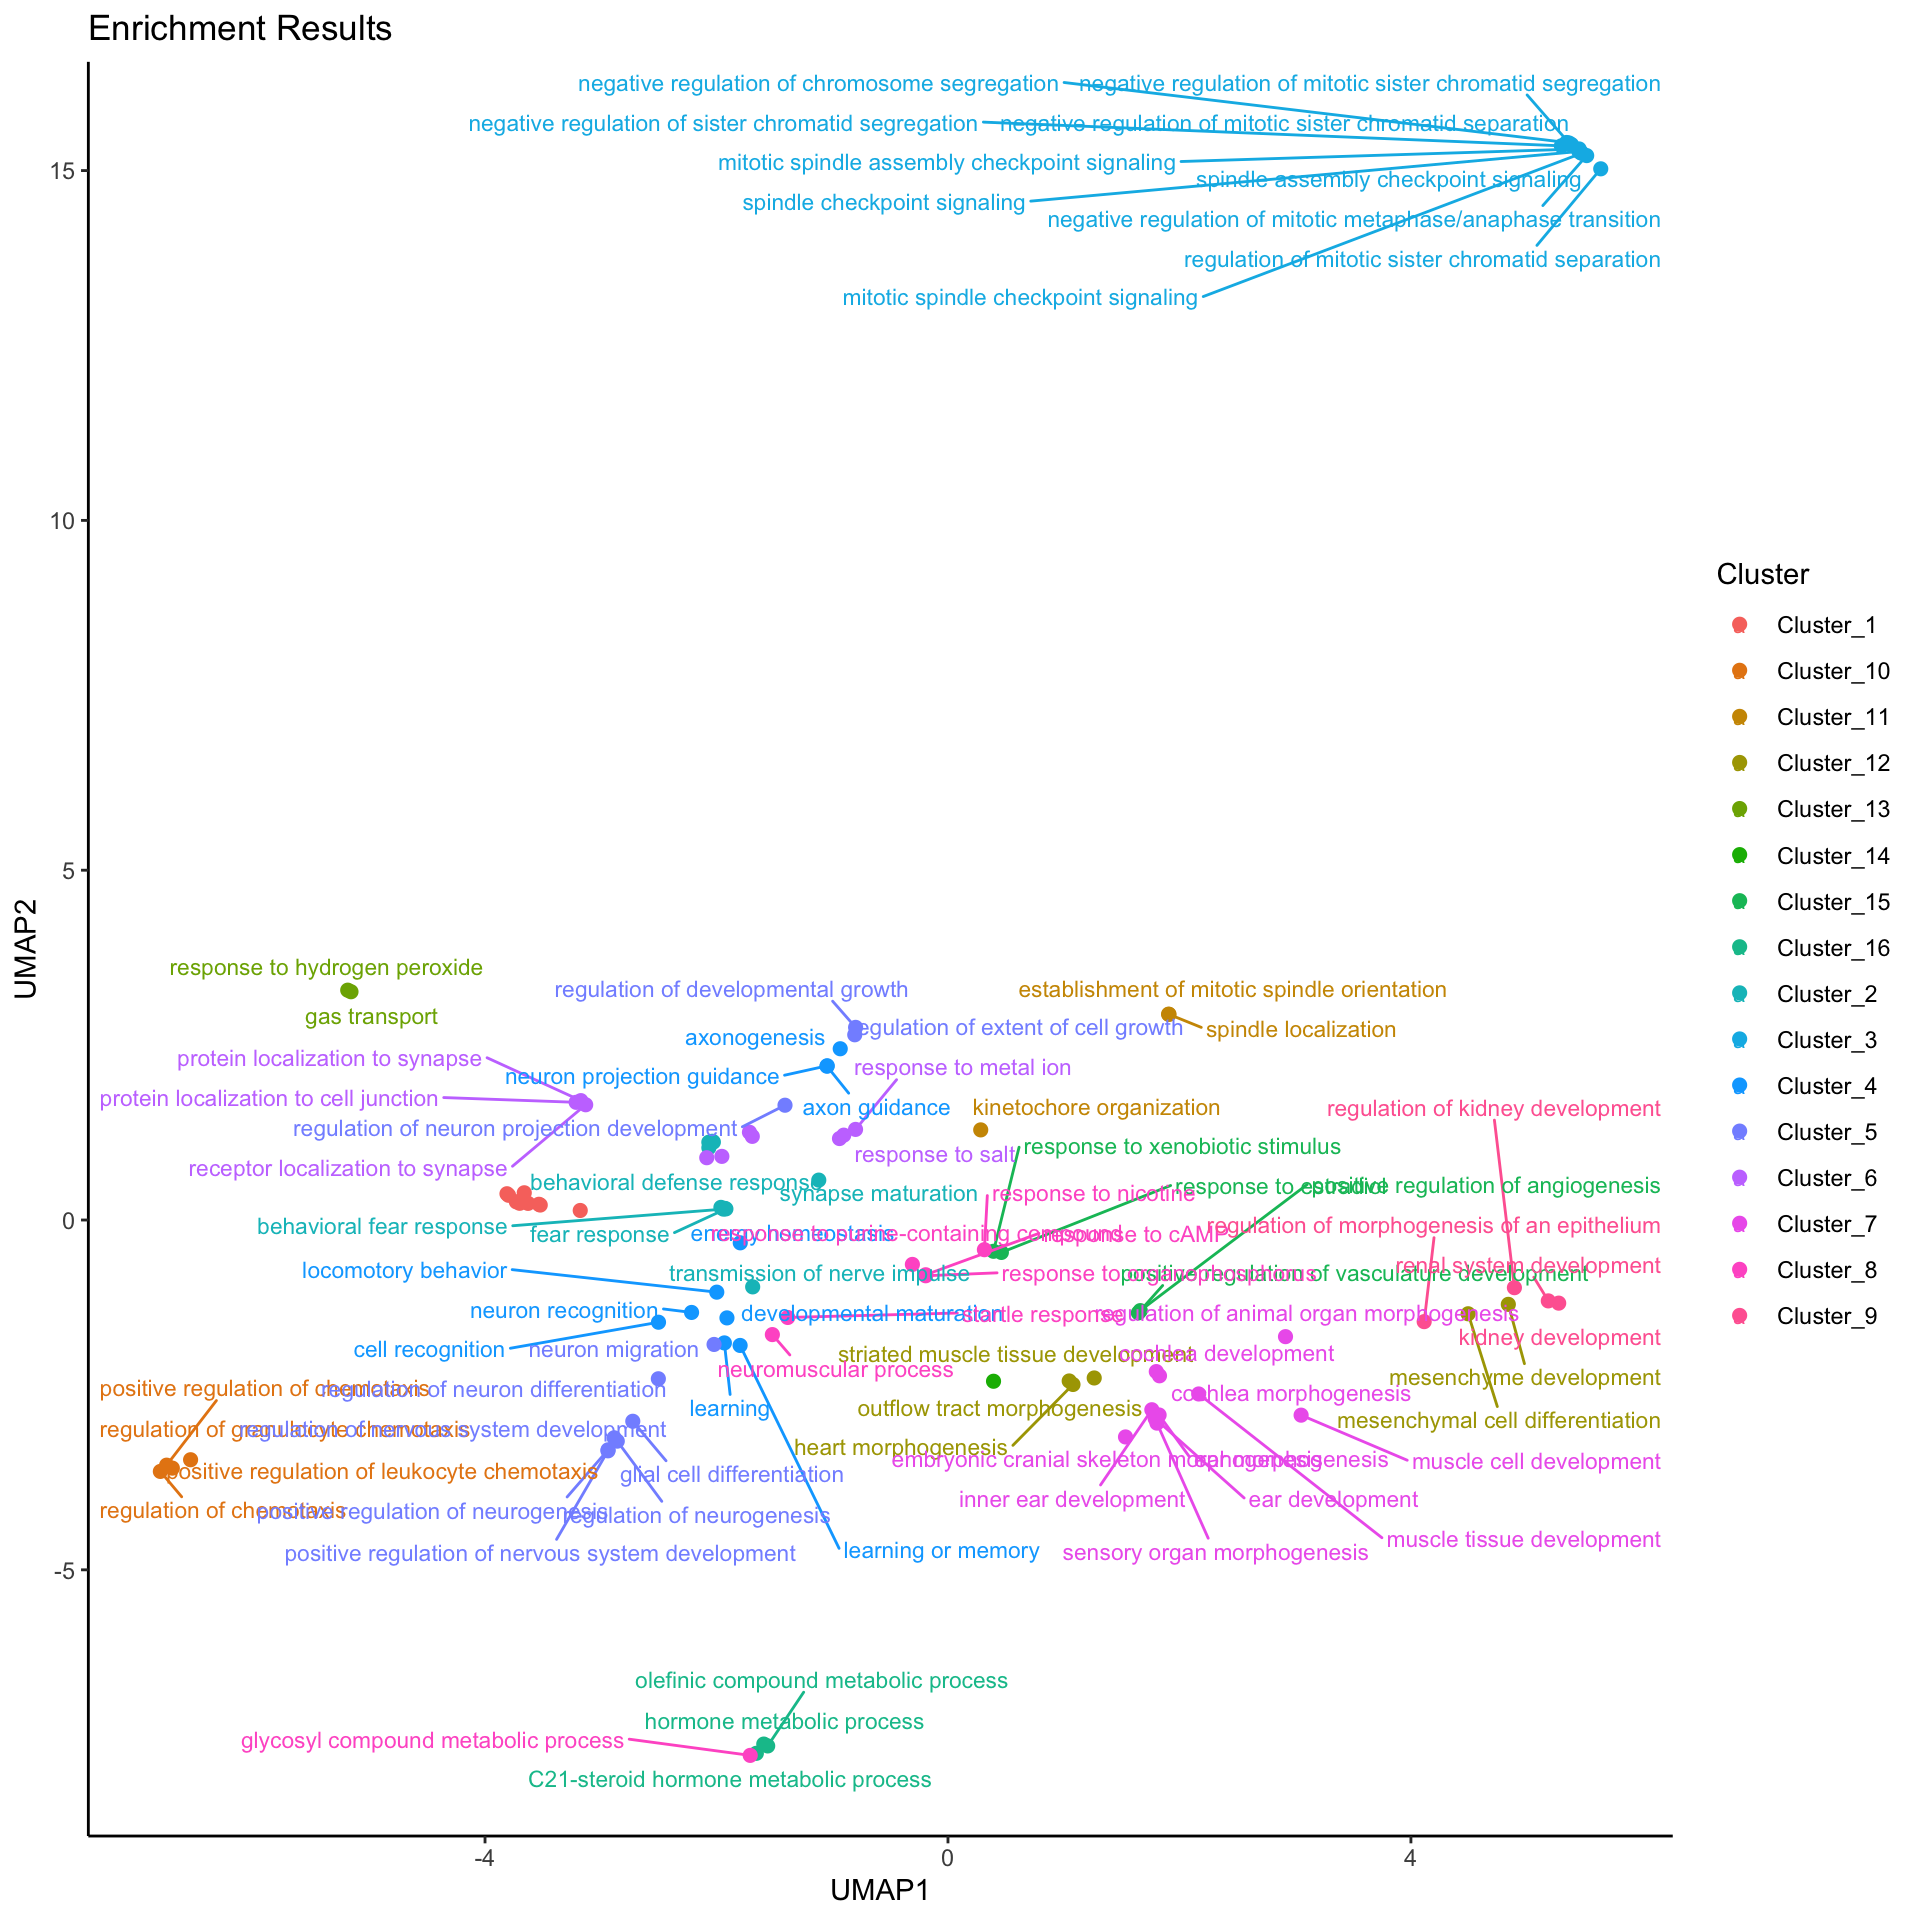
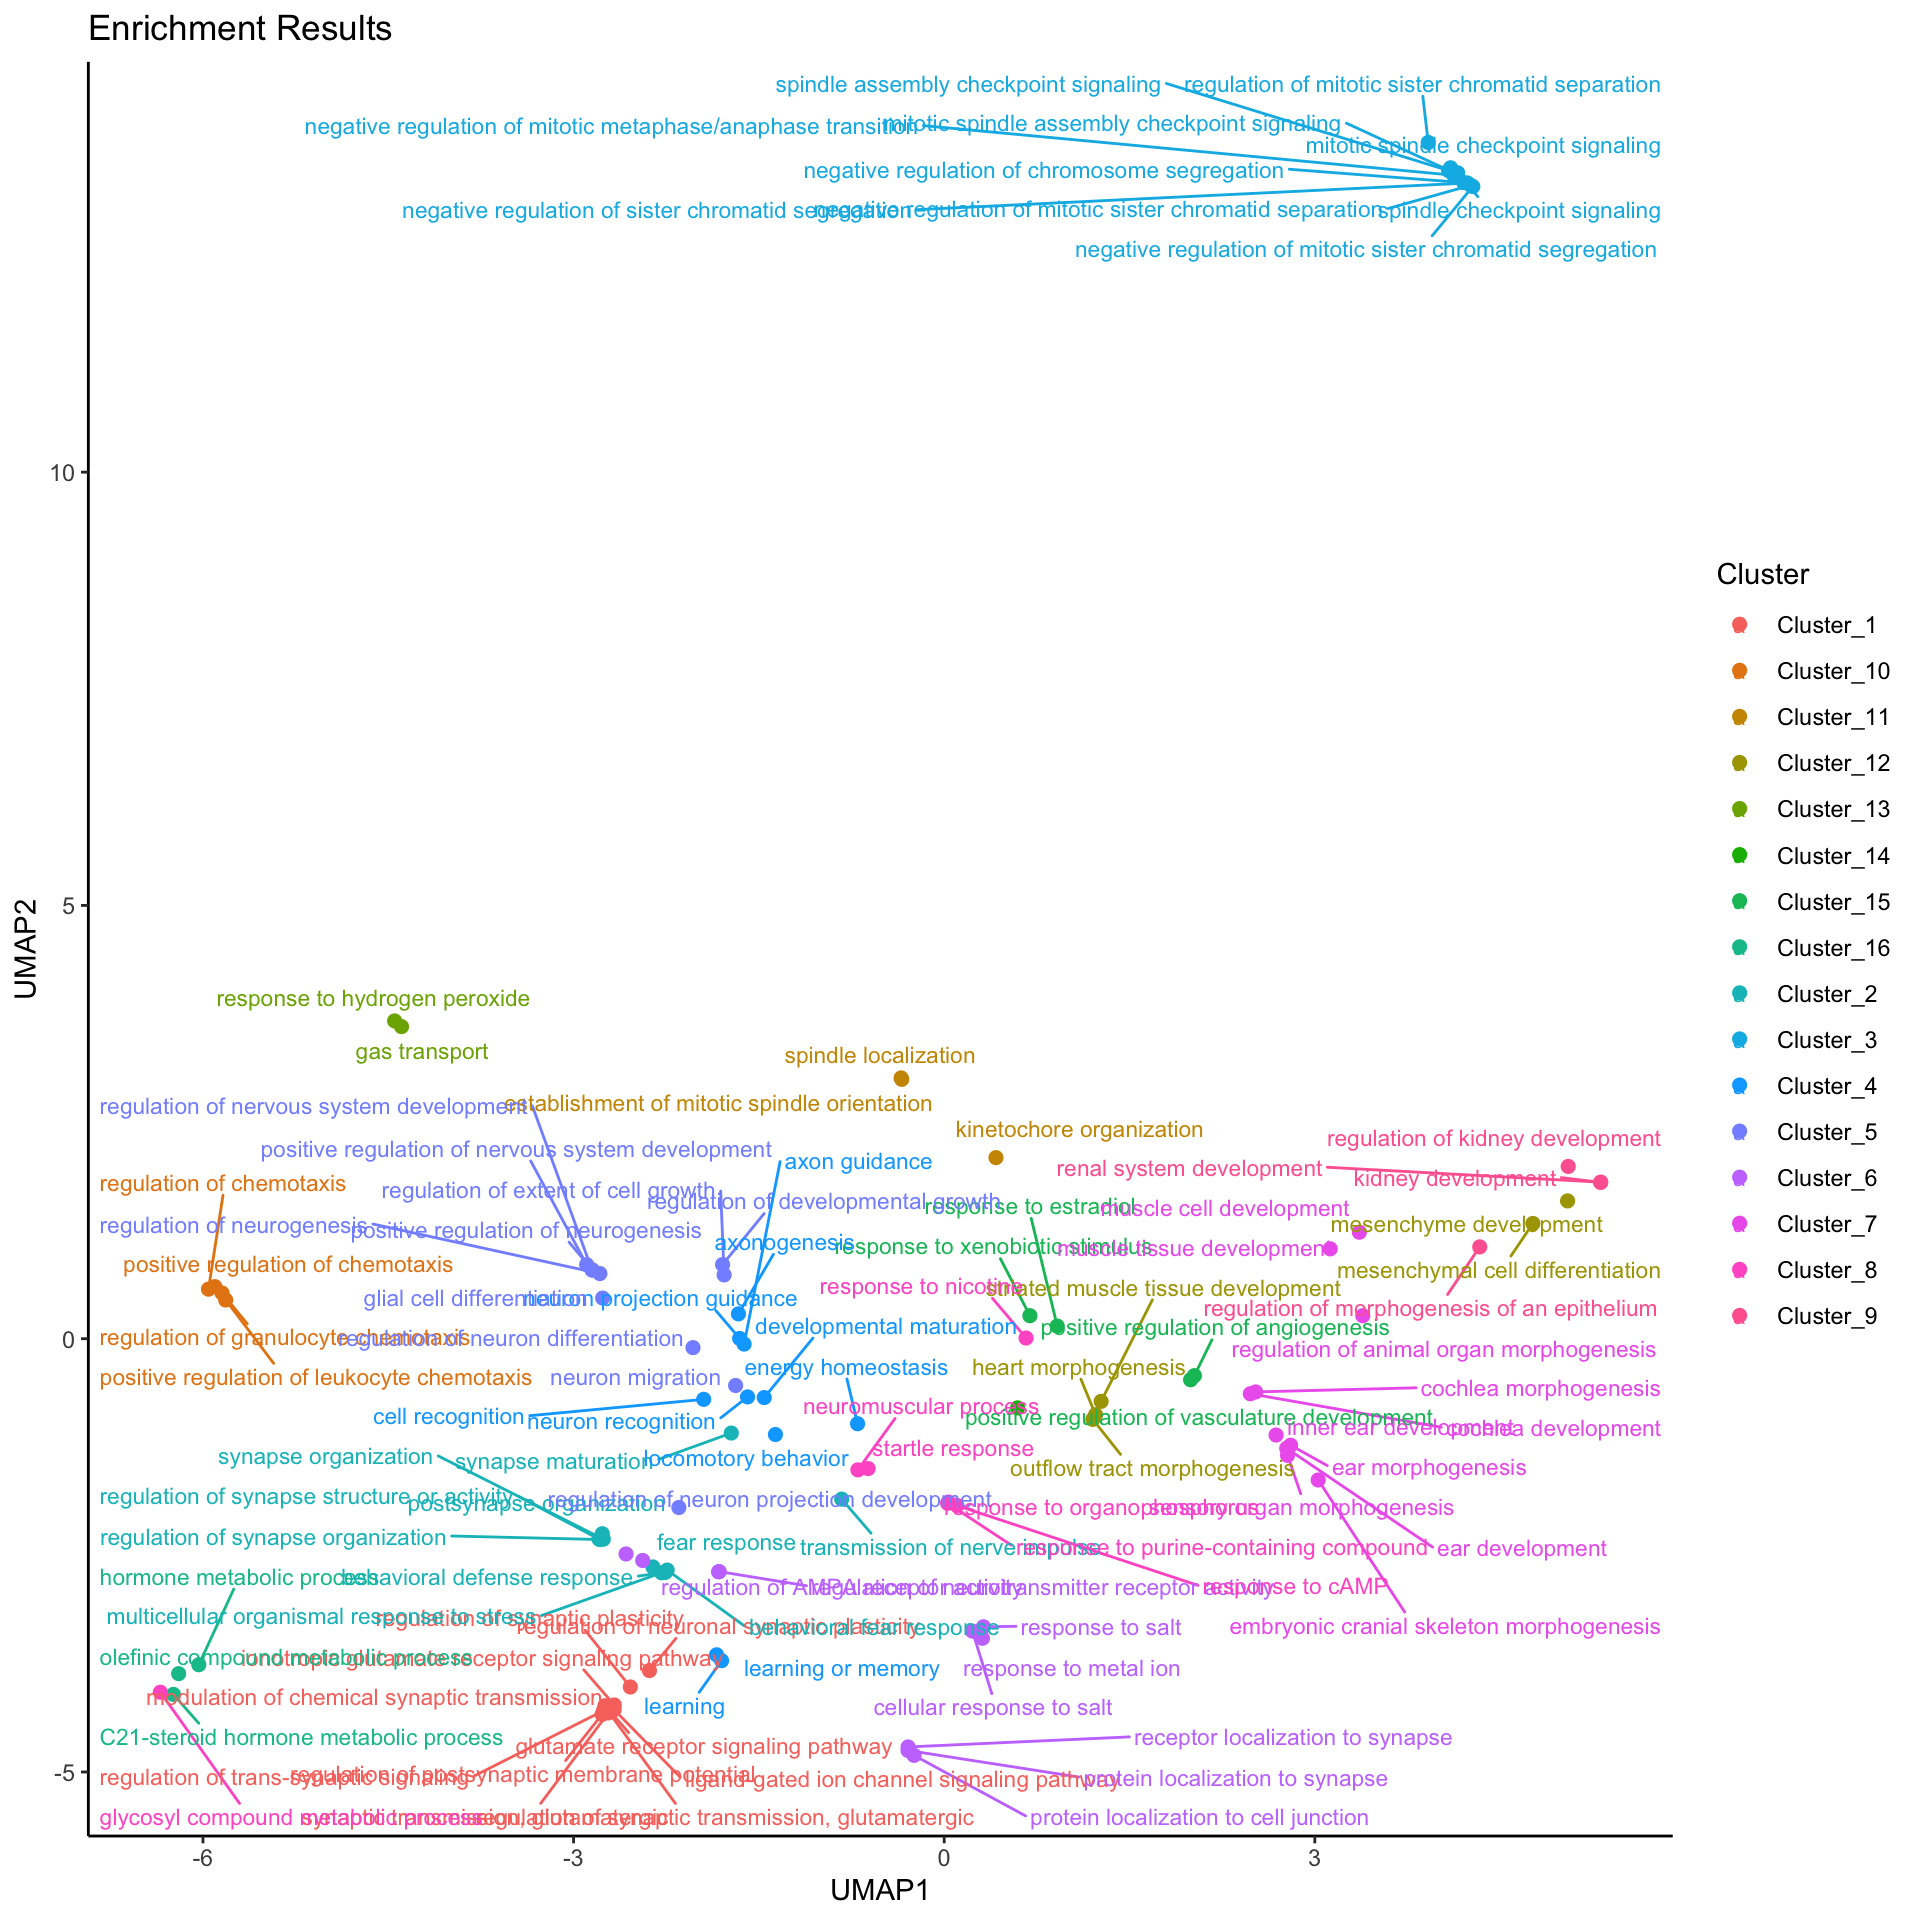
Update website apperance

diff --git a/_site/index.html b/_site/index.html
@@ -8,7 +8,7 @@
 
 <meta name="author" content="Zhiming Ye">
 
-<title>EnrichGT Documents</title>
+<title>EnrichGT – EnrichGT Documents</title>
 <style>
 code{white-space: pre-wrap;}
 span.smallcaps{font-variant: small-caps;}
@@ -223,14 +223,14 @@ window.Quarto = {
   </ul></li>
   <li><a href="#acknowledgement" id="toc-acknowledgement" class="nav-link" data-scroll-target="#acknowledgement">Acknowledgement</a></li>
   </ul>
-</nav>
+<div class="toc-actions"><ul><li><a href="https://github.com/ZhimingYe/EnrichGT_website/edit/main/index.qmd" class="toc-action"><i class="bi bi-github"></i>Edit this page</a></li><li><a href="https://github.com/ZhimingYe/EnrichGT_website/blob/main/index.qmd" class="toc-action"><i class="bi empty"></i>View source</a></li><li><a href="https://github.com/ZhimingYe/EnrichGT_website/issues/new" class="toc-action"><i class="bi empty"></i>Report an issue</a></li></ul></div></nav>
     </div>
 <!-- main -->
 <main class="content" id="quarto-document-content">
 
 <header id="title-block-header" class="quarto-title-block default">
 <div class="quarto-title">
-<h1 class="title">EnrichGT Documents</h1>
+<h1 class="title">EnrichGT</h1>
 </div>
 
 
@@ -381,7 +381,7 @@ Important
 </div>
 </div>
 <div class="callout-body-container callout-body">
-<p>See <a href="package_functions.html">package function page</a> for further information (For example, how to use a function)</p>
+<p>See <a href="pkgfuns.html">package function page</a> for further information (For example, how to use a function)</p>
 <p>You can use <code>? function</code> to get further help when installed.</p>
 <div class="sourceCode" id="cb3"><pre class="sourceCode r code-with-copy"><code class="sourceCode r"><span id="cb3-1"><a href="#cb3-1" aria-hidden="true" tabindex="-1"></a>?egt_recluster_analysis</span></code><button title="Copy to Clipboard" class="code-copy-button"><i class="bi"></i></button></pre></div>
 </div>
@@ -458,8 +458,8 @@ Specify the column types or set `show_col_types = FALSE` to quiet this message.
 <span id="cb8-2"><a href="#cb8-2" aria-hidden="true" tabindex="-1"></a>ora_result <span class="ot">&lt;-</span> <span class="fu">egt_enrichment_analysis</span>(<span class="at">genes =</span> DEGexample_UpReg<span class="sc">$</span>...<span class="dv">1</span>,<span class="at">database =</span> <span class="fu">database_GO_BP</span>(org.Hs.eg.db))</span></code><button title="Copy to Clipboard" class="code-copy-button"><i class="bi"></i></button></pre></div>
 <div class="cell-output cell-output-stderr">
 <pre><code>
-✔ success loaded database, time used : 14.436637878418 sec.
-✔ Done ORA in 0.131885051727295 sec.</code></pre>
+✔ success loaded database, time used : 16.2816200256348 sec.
+✔ Done ORA in 0.136809825897217 sec.</code></pre>
 </div>
 <div class="sourceCode cell-code" id="cb10"><pre class="sourceCode r code-with-copy"><code class="sourceCode r"><span id="cb10-1"><a href="#cb10-1" aria-hidden="true" tabindex="-1"></a><span class="fu">head</span>(ora_result)</span></code><button title="Copy to Clipboard" class="code-copy-button"><i class="bi"></i></button></pre></div>
 <div class="cell-output cell-output-stdout">
@@ -762,7 +762,7 @@ Warning
 <div class="cell">
 <div class="sourceCode cell-code" id="cb24"><pre class="sourceCode r code-with-copy"><code class="sourceCode r"><span id="cb24-1"><a href="#cb24-1" aria-hidden="true" tabindex="-1"></a><span class="fu">egt_plot_umap</span>(re_enrich)</span></code><button title="Copy to Clipboard" class="code-copy-button"><i class="bi"></i></button></pre></div>
 <div class="cell-output cell-output-stderr">
-<pre><code>Warning: ggrepel: 21 unlabeled data points (too many overlaps). Consider
+<pre><code>Warning: ggrepel: 3 unlabeled data points (too many overlaps). Consider
 increasing max.overlaps</code></pre>
 </div>
 <div class="cell-output-display">
@@ -948,7 +948,7 @@ If also using <code>clusterProfiler</code> ?
 
 </section>
 
-</main> <!-- /main -->
+<a onclick="window.scrollTo(0, 0); return false;" role="button" id="quarto-back-to-top"><i class="bi bi-arrow-up"></i> Back to top</a></main> <!-- /main -->
 <script id="quarto-html-after-body" type="application/javascript">
 window.document.addEventListener("DOMContentLoaded", function (event) {
   const toggleBodyColorMode = (bsSheetEl) => {
@@ -1367,6 +1367,19 @@ window.document.addEventListener("DOMContentLoaded", function (event) {
 });
 </script>
 </div> <!-- /content -->
+<footer class="footer">
+  <div class="nav-footer">
+    <div class="nav-footer-left">
+<p>Copyright 2024 Zhiming Ye. Package website is built with Quarto + Rd2md.</p>
+</div>   
+    <div class="nav-footer-center">
+      &nbsp;
+    <div class="toc-actions d-sm-block d-md-none"><ul><li><a href="https://github.com/ZhimingYe/EnrichGT_website/edit/main/index.qmd" class="toc-action"><i class="bi bi-github"></i>Edit this page</a></li><li><a href="https://github.com/ZhimingYe/EnrichGT_website/blob/main/index.qmd" class="toc-action"><i class="bi empty"></i>View source</a></li><li><a href="https://github.com/ZhimingYe/EnrichGT_website/issues/new" class="toc-action"><i class="bi empty"></i>Report an issue</a></li></ul></div></div>
+    <div class="nav-footer-right">
+<p>Corresponding to EnrichGT Version 0.6</p>
+</div>
+  </div>
+</footer>
 
 
 

diff --git a/_site/pkgfuns.html b/_site/pkgfuns.html
@@ -245,7 +245,7 @@ pre > code.sourceCode > span > a:first-child::before { text-decoration: underlin
   <li><a href="#value-10" id="toc-value-10" class="nav-link" data-scroll-target="#value-10">Value</a></li>
   </ul></li>
   </ul>
-</nav>
+<div class="toc-actions"><ul><li><a href="https://github.com/ZhimingYe/EnrichGT_website/edit/main/pkgfuns.qmd" class="toc-action"><i class="bi bi-github"></i>Edit this page</a></li><li><a href="https://github.com/ZhimingYe/EnrichGT_website/blob/main/pkgfuns.qmd" class="toc-action"><i class="bi empty"></i>View source</a></li><li><a href="https://github.com/ZhimingYe/EnrichGT_website/issues/new" class="toc-action"><i class="bi empty"></i>Report an issue</a></li></ul></div></nav>
     </div>
 <!-- main -->
 <main class="content" id="quarto-document-content"><header id="title-block-header" class="quarto-title-block"></header>
@@ -258,7 +258,7 @@ pre > code.sourceCode > span > a:first-child::before { text-decoration: underlin
 <pre><code>Type: Package
 Package: EnrichGT
 Title: Parse and cluster biological enrichment result to great tables
-Version: 0.6.0
+Version: 0.6.0.1
 Author: Zhiming Ye
 Maintainer: Zhiming Ye &lt;garnetcrow@hotmail.com&gt;
 Description: Parse and cluster biological enrichment result to great
@@ -680,7 +680,7 @@ RoxygenNote: 7.3.1</code></pre>
 </section>
 </section>
 
-</main> <!-- /main -->
+<a onclick="window.scrollTo(0, 0); return false;" role="button" id="quarto-back-to-top"><i class="bi bi-arrow-up"></i> Back to top</a></main> <!-- /main -->
 <script id="quarto-html-after-body" type="application/javascript">
 window.document.addEventListener("DOMContentLoaded", function (event) {
   const toggleBodyColorMode = (bsSheetEl) => {
@@ -1099,6 +1099,19 @@ window.document.addEventListener("DOMContentLoaded", function (event) {
 });
 </script>
 </div> <!-- /content -->
+<footer class="footer">
+  <div class="nav-footer">
+    <div class="nav-footer-left">
+<p>Copyright 2024 Zhiming Ye. Package website is built with Quarto + Rd2md.</p>
+</div>   
+    <div class="nav-footer-center">
+      &nbsp;
+    <div class="toc-actions d-sm-block d-md-none"><ul><li><a href="https://github.com/ZhimingYe/EnrichGT_website/edit/main/pkgfuns.qmd" class="toc-action"><i class="bi bi-github"></i>Edit this page</a></li><li><a href="https://github.com/ZhimingYe/EnrichGT_website/blob/main/pkgfuns.qmd" class="toc-action"><i class="bi empty"></i>View source</a></li><li><a href="https://github.com/ZhimingYe/EnrichGT_website/issues/new" class="toc-action"><i class="bi empty"></i>Report an issue</a></li></ul></div></div>
+    <div class="nav-footer-right">
+<p>Corresponding to EnrichGT Version 0.6</p>
+</div>
+  </div>
+</footer>
 
 
 

diff --git a/_site/preface.html b/_site/preface.html
@@ -164,7 +164,7 @@ ul.task-list li input[type="checkbox"] {
 
 
 
-</main> <!-- /main -->
+<a onclick="window.scrollTo(0, 0); return false;" role="button" id="quarto-back-to-top"><i class="bi bi-arrow-up"></i> Back to top</a></main> <!-- /main -->
 <script id="quarto-html-after-body" type="application/javascript">
 window.document.addEventListener("DOMContentLoaded", function (event) {
   const toggleBodyColorMode = (bsSheetEl) => {
@@ -583,6 +583,19 @@ window.document.addEventListener("DOMContentLoaded", function (event) {
 });
 </script>
 </div> <!-- /content -->
+<footer class="footer">
+  <div class="nav-footer">
+    <div class="nav-footer-left">
+<p>Copyright 2024 Zhiming Ye. Package website is built with Quarto + Rd2md.</p>
+</div>   
+    <div class="nav-footer-center">
+      &nbsp;
+    <div class="toc-actions"><ul><li><a href="https://github.com/ZhimingYe/EnrichGT_website/edit/main/preface.qmd" class="toc-action"><i class="bi bi-github"></i>Edit this page</a></li><li><a href="https://github.com/ZhimingYe/EnrichGT_website/blob/main/preface.qmd" class="toc-action"><i class="bi empty"></i>View source</a></li><li><a href="https://github.com/ZhimingYe/EnrichGT_website/issues/new" class="toc-action"><i class="bi empty"></i>Report an issue</a></li></ul></div></div>
+    <div class="nav-footer-right">
+<p>Corresponding to EnrichGT Version 0.6</p>
+</div>
+  </div>
+</footer>
 
 
 
